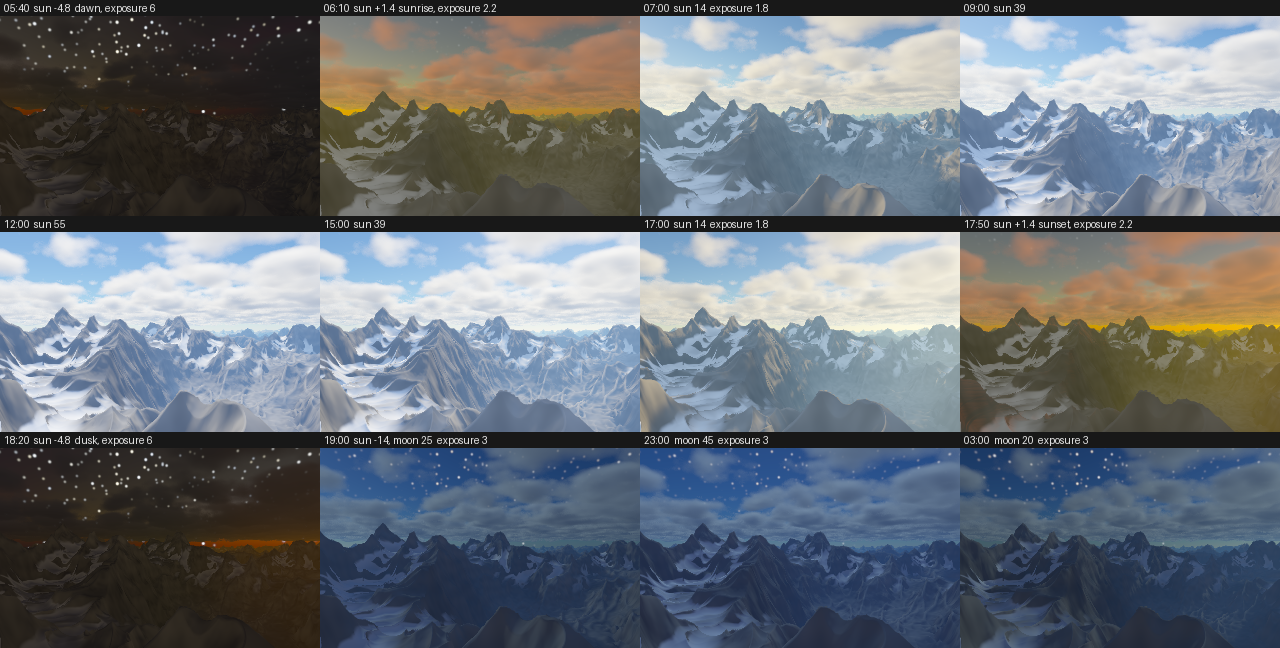
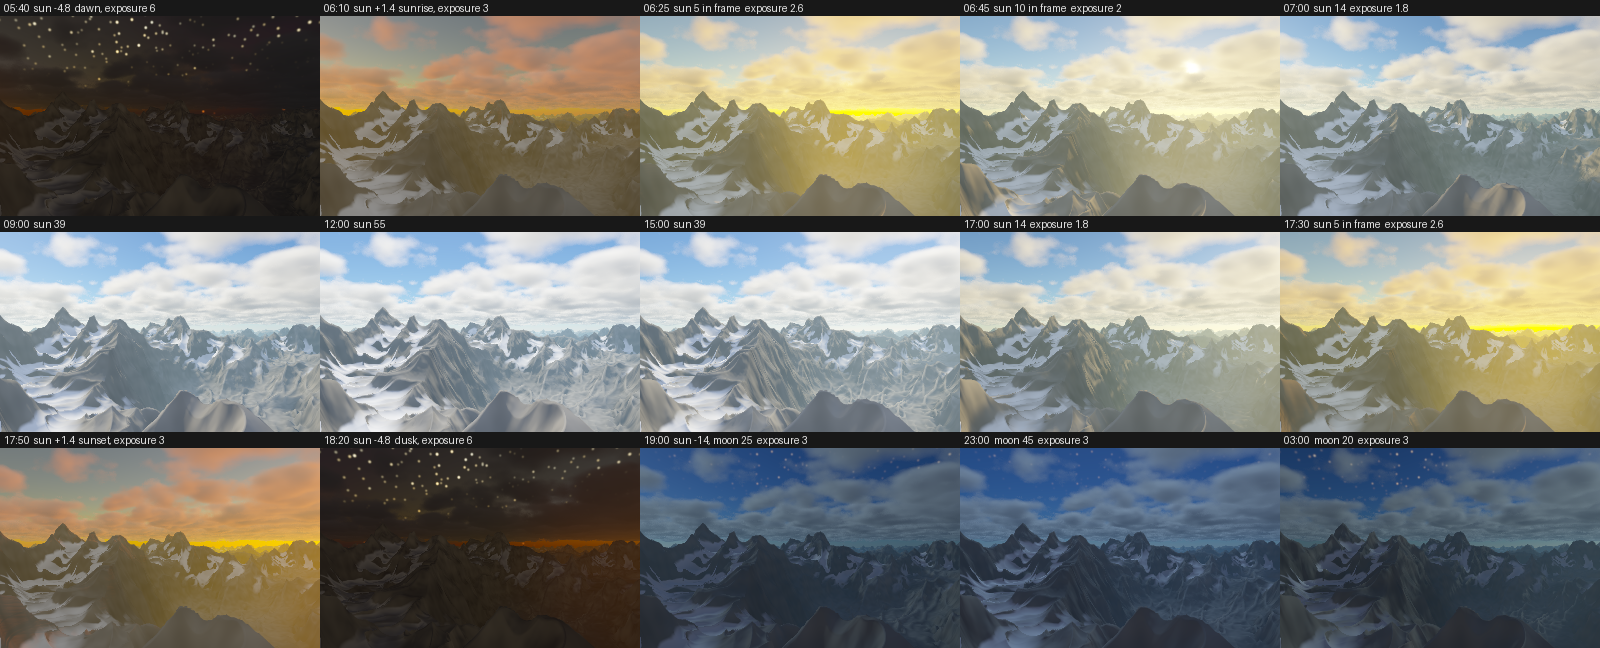
Stars gone by civil twilight; 15-tile sweep sheet (#22)
Claude-Session: https://claude.ai/code/session_01SjY16JjyTvuME1oVQVUxjG

diff --git a/docs/techniques.html b/docs/techniques.html
@@ -356,7 +356,7 @@ cloud octaves   = clamp( floor( log(1 / (2 · t · PixAng · NoiseScale)) / log 
 
 <p><strong>The sky.</strong> Along a view ray the scattered light is the integral of <em>density × phase × sunlight × view transmittance</em>. The ray is cut into eight height bands (edges 20, 60, 150, 350, 800, 1800, 4000 above the camera, then space); within a band the source-to-extinction ratio and the sunlight are taken at the band's middle and the view transmittance integrates in closed form, <code>(S/σ)·T(h)·(e^(−τ_a) − e^(−τ_b))</code>, so eight bands land within a few percent of a fine march by day; in twilight, where the sunlight changes fast across a band, the coarse bands overestimate the zenith by about half (dim either way). A second pass adds multiple scattering cheaply: the mean radiance of the once-scattered sky over the hemisphere (computed once per sun position) is scattered again by every band, which is where much of the horizon's brightness and the zenith's blue come from. The result is saturated a little about its luminance (<code>SkySat</code> 1.2), scaled against the sun (<code>SkyGain</code> 12.7: the renderer's sun is a unit, not 100,000 lux), and the disc (<code>SunDisc·μ⁴⁰⁹⁶</code> in the sun's own transmitted colour) and stars are added. <code>Zenith</code>, <code>Horizon</code>, <code>SkyAmb</code> (the sky's cosine-weighted mean, times <code>AmbGain</code>, pulled toward grey) and the clouds' <code>AmbTop</code>/<code>AmbBot</code> are derived from the same model at load, unless a piece sets them; <code>fc-sun-update</code> rederives them after a change.</p>
 
-<p><strong>Night.</strong> A moon is a second light through the same scattering, in its own blue-grey colour and at <code>MoonLight</code> of the sun's strength (a day-for-night convention; the eye's adaptation is <code>Exposure</code>). When it outshines the sun at the camera it takes over <code>SunDir</code> and <code>SunCol</code>, so the ground and clouds are moonlit. Stars are a hash over 1.2° cells of azimuth and elevation, each holding a star with one chance in five, at a hashed position with a hashed brightness (most faint) and warmth, drawn as a gaussian two thirds of a pixel wide and faded out by <code>e^(−30·L)</code> under a sky of luminance <code>L</code>, so they vanish by day and dim near a full moon.</p>
+<p><strong>Night.</strong> A moon is a second light through the same scattering, in its own blue-grey colour and at <code>MoonLight</code> of the sun's strength (a day-for-night convention; the eye's adaptation is <code>Exposure</code>). When it outshines the sun at the camera it takes over <code>SunDir</code> and <code>SunCol</code>, so the ground and clouds are moonlit. Stars are a hash over 1.2° cells of azimuth and elevation, each holding a star with one chance in five, at a hashed position with a hashed brightness (most faint) and warmth, drawn as a gaussian two thirds of a pixel wide, seen through the air's transmittance, and faded out by <code>e^(−200·L)</code> under a sky of luminance <code>L</code>, so they are gone by civil twilight and thin under a full moon.</p>
 
 <figure>
   <img src="prs/22-sky-model/sweep.png" alt="Contact sheet: the mountains scene at twelve times of day, from dawn through noon to sunset, dusk and a moonlit night." loading="lazy">
